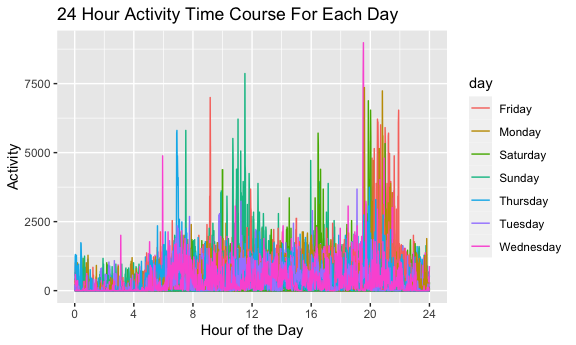
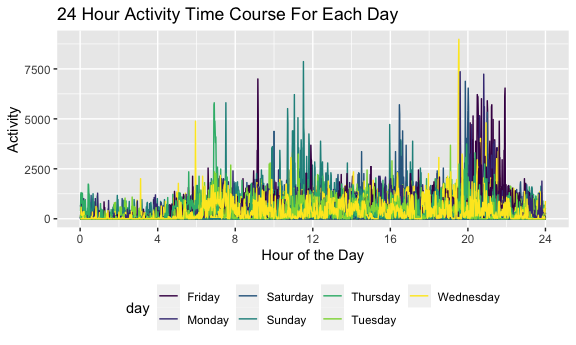
updating problem 3

diff --git a/p8105_hw3_lcc2181.md b/p8105_hw3_lcc2181.md
@@ -380,12 +380,13 @@ response.
 
 Loading, tidying and wrangling the data for use in Problem 3
 
-*Using `read_csv` to load in the data file *Including a weekday
-vs. weekend variable by using `mutate` to create new variable
-weekday\_vs\_weekend which is created using `recode` to code days of the
-week *Using `pivot_longer` to display activity count at each minute as a
-new observation (row) rather than as a variable (column) *Using mutate
-to convert new `minute` variable to numeric
+-   Using `read_csv` to load in the data file
+-   Including a weekday vs. weekend variable by using `mutate` to create
+    new variable weekday\_vs\_weekend which is created using `recode` to
+    code days of the week
+-   Using `pivot_longer` to display activity count at each minute shown
+    as a new observation rather than as a separate column
+-   Using mutate to convert new `minute` variable to numeric
 
 ``` r
 accel_df =
@@ -411,44 +412,57 @@ activity. There is an observation recording activity counts for each
 minute of each day over the course of 35 days.
 
 Creating a total activity variable for each day, aggregating across
-minutes
+minutes, and making a table showing these totals
 
-\*Using `group_by` to group by day and `summarize` to create a new
-variable total\_activity which is sum of all activity observations from
-each minute of the day.
+-   Using `group_by` to group by day and week and `summarize` to create
+    a new variable total\_activity which is sum of all activity
+    observations from each minute of the day
+-   Using `pivot_wider` to make the days of the week columns take on
+    values from the newly created total\_activity variable, while weeks
+    remain as rows
+-   Using `relocate` to order days of the week in chronological order
+-   Using `knitr::kable()` to make the table reader-friendly
 
 ``` r
 accel_df %>% 
-  group_by(day_id) %>% 
-  summarize(total_activity = sum(activity))
+  group_by(day, week) %>% 
+  summarize(total_activity = sum(activity)) %>% 
+  pivot_wider(
+    names_from = "day",
+    values_from = "total_activity"
+  ) %>% 
+  relocate(week, Sunday, Monday, Tuesday, Wednesday, Thursday, Friday) %>% 
+  knitr::kable()
 ```
 
-    ## # A tibble: 35 × 2
-    ##    day_id total_activity
-    ##     <dbl>          <dbl>
-    ##  1      1        480543.
-    ##  2      2         78828.
-    ##  3      3        376254 
-    ##  4      4        631105 
-    ##  5      5        355924.
-    ##  6      6        307094.
-    ##  7      7        340115.
-    ##  8      8        568839 
-    ##  9      9        295431 
-    ## 10     10        607175 
-    ## # … with 25 more rows
+    ## `summarise()` has grouped output by 'day'. You can override using the `.groups` argument.
 
-The individual’s activity counts vary substantially by day. His highest
-activity count is reported on day 16 (685910.00) and his lowest total
-activity count is reported on days 24 and 31 (1440.00).
+| week | Sunday |    Monday |  Tuesday | Wednesday | Thursday |   Friday | Saturday |
+|-----:|-------:|----------:|---------:|----------:|---------:|---------:|---------:|
+|    1 | 631105 |  78828.07 | 307094.2 |    340115 | 355923.6 | 480542.6 |   376254 |
+|    2 | 422018 | 295431.00 | 423245.0 |    440962 | 474048.0 | 568839.0 |   607175 |
+|    3 | 467052 | 685910.00 | 381507.0 |    468869 | 371230.0 | 467420.0 |   382928 |
+|    4 | 260617 | 409450.00 | 319568.0 |    434460 | 340291.0 | 154049.0 |     1440 |
+|    5 | 138421 | 389080.00 | 367824.0 |    445366 | 549658.0 | 620860.0 |     1440 |
+
+The individual’s total activity varies substantially by day. His highest
+total activity is reported on the Monday in Week 3 (685910.00). One
+trend I observed is that in the last two weeks (Week 4 and Week 5), the
+individual records his lowest total activity level on Saturday, with the
+individual having a total activity level of 1440 on both of the final
+two Saturdays.
 
 Making a single-panel plot that shows the 24-hour activity time courses
 each day, using color to indicate day of the week.
 
-*Using `mutate` to divide the minute variable by 60 in order to convert
-minutes into hours *Creating a `ggplot` with hour on the x-axis and
-activity on the y-axis, colored by day of the week; adding
-`geom_smooth()` to create a line for each day.
+-   Using `mutate` to divide the minute variable by 60 in order to
+    convert minutes into hours
+-   Creating a `ggplot` with hour on the x-axis and activity on the
+    y-axis, grouped by day\_id, and colored by day of the week; adding
+    `geom_line()` to create a line for each day
+-   Additional code is added to format the plot, include making the
+    scale of the x-axis increments by 4 up to 24, moving the legend to
+    the bottom, and using the viridis color scheme
 
 ``` r
 accel_df %>% 
@@ -460,12 +474,22 @@ accel_df %>%
     x = "Hour of the Day",
     y = "Activity"
   ) +
-  scale_x_continuous(breaks = c(0, 4, 8, 12, 16, 20, 24))
+  scale_x_continuous(breaks = c(0, 4, 8, 12, 16, 20, 24))  +
+  theme(legend.position = "bottom") +
+  viridis::scale_color_viridis(
+    name = "day", 
+    discrete = TRUE
+  )
 ```
 
 <img src="p8105_hw3_lcc2181_files/figure-gfm/unnamed-chunk-14-1.png" width="90%" />
 
-Based on this graph, I can tell the day of week and hour of day the
-individual had the highest activity count. Specifically, the individual
-appears to have been most active on a Wednesday in the 19th hour of the
-day.
+Based on this graph, I can tell that the individual’s highest activity
+count was over 8,750. I can also tell the day of week and hour of day in
+which the individual achieved his highest activity count. Specifically,
+this appears to have occurred on a Wednesday in the 19th hour of the
+day. In general, it appears the individual often has relatively high
+activity counts between the 20th and 22nd hours of the day, particularly
+on Fridays. Additionally, regardless of day of the week, the individual
+generally has relatively low activity counts in the first five hours of
+the day.
